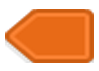
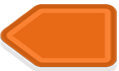
Changed buttons

diff --git a/LabGame/Classes/MenuScene.cpp b/LabGame/Classes/MenuScene.cpp
@@ -64,24 +64,24 @@ bool MenuScene::init()
 
 	// Start game button
 	Touchables* start = new Touchables();
-	start->init("startgame_button.png", "mainSprite", visibleSize.width * 0.35, visibleSize.height * 0.6, Touchables::T_STARTGAME);
+	start->init("yellow_button1.png", "mainSprite", visibleSize.width * 0.35, visibleSize.height * 0.6, Touchables::T_STARTGAME);
 	start->getSprite()->setScale(1.2);
 
 	// Shop button
 	Touchables* shop = new Touchables();
-	shop->init("shop.png", "mainSprite", visibleSize.width * 0.35, visibleSize.height * 0.5, Touchables::T_SHOP);
+	shop->init("red_button1.png", "mainSprite", visibleSize.width * 0.35, visibleSize.height * 0.5, Touchables::T_SHOP);
 	shop->getSprite()->setScale(1.2);
 
 	// Setting button
 	Touchables* settings = new Touchables();
-	settings->init("settings.png", "mainSprite", visibleSize.width * 0.35, visibleSize.height * 0.4, Touchables::T_SETTINGS);
+	settings->init("green_button1.png", "mainSprite", visibleSize.width * 0.35, visibleSize.height * 0.4, Touchables::T_SETTINGS);
 	settings->getSprite()->setScale(1.2);
 
 	// Exit button
 	Touchables* exit = new Touchables();
-	exit->init("exit.png", "mainSprite", visibleSize.width * 0.35, visibleSize.height * 0.3, Touchables::T_EXIT);
+	exit->init("blue_button1.png", "mainSprite", visibleSize.width * 0.35, visibleSize.height * 0.3, Touchables::T_EXIT);
 	exit->getSprite()->setScale(1.2);
-
+	
 	// push back sprite vector
 	touchableSprites.push_back(start);
 	touchableSprites.push_back(shop);
@@ -102,10 +102,24 @@ bool MenuScene::init()
 	//health2->setPosition(400, 300);
 	//nodeItems->addChild(health2, 1);
 
+
 	for (auto* s : touchableSprites)
 	{
 		spriteNode->addChild(s->getSprite(), 1);
 	}
+
+	// Text on button
+	start->SetText("START GAME", 1, "fonts/Soos.ttf", ccc3(255, 255, 255), 0, 0);
+	start->GetLabel()->disableEffect();
+
+	shop->SetText("SHOP", 1, "fonts/Soos.ttf", ccc3(255, 255, 255), 0, 0);
+	shop->GetLabel()->disableEffect();
+
+	settings->SetText("SETTINGS", 1, "fonts/Soos.ttf", ccc3(255, 255, 255), 0, 0);
+	settings->GetLabel()->disableEffect();
+
+	exit->SetText("EXIT", 1, "fonts/Soos.ttf", ccc3(255, 255, 255), 0, 0);
+	exit->GetLabel()->disableEffect();
 
 	auto moveEvent = MoveBy::create(1, Vec2(200, 0));  // Move to 200 pixels in 1 second
 													   //Move to is absolute movement
@@ -301,37 +315,37 @@ void MenuScene::onMouseMove(Event *event)
 			{
 			case Touchables::T_STARTGAME:
 			{
-				s->getSprite()->setTexture("startgame_button2.png");
+				s->getSprite()->setTexture("yellow_button2.png");
 				if (s->GetLabel() != nullptr)
 				{
-					s->GetLabel()->setColor(ccc3(0, 0, 255));
+					s->GetLabel()->setColor(ccc3(245, 245, 245));
 				}
 				break;
 			}
 			case Touchables::T_SHOP:
 			{
-				s->getSprite()->setTexture("shop_button2.png");
+				s->getSprite()->setTexture("red_button2.png");
 				if (s->GetLabel() != nullptr)
 				{
-					s->GetLabel()->setColor(ccc3(0, 0, 255));
+					s->GetLabel()->setColor(ccc3(245, 245, 245));
 				}
 				break;
 			}
 			case Touchables::T_SETTINGS:
 			{
-				s->getSprite()->setTexture("settings_button2.png");
+				s->getSprite()->setTexture("green_button2.png");
 				if (s->GetLabel() != nullptr)
 				{
-					s->GetLabel()->setColor(ccc3(0, 0, 255));
+					s->GetLabel()->setColor(ccc3(245, 245, 245));
 				}
 				break;
 			}
 			case Touchables::T_EXIT:
 			{
-				s->getSprite()->setTexture("exit_button2.png");
+				s->getSprite()->setTexture("blue_button2.png");
 				if (s->GetLabel() != nullptr)
 				{
-					s->GetLabel()->setColor(ccc3(0, 0, 255));
+					s->GetLabel()->setColor(ccc3(245, 245, 245));
 				}
 				break;
 			}
@@ -343,37 +357,37 @@ void MenuScene::onMouseMove(Event *event)
 			{
 			case Touchables::T_STARTGAME:
 			{
-				s->getSprite()->setTexture("startgame_button.png");
+				s->getSprite()->setTexture("yellow_button1.png");
 				if (s->GetLabel() != nullptr)
 				{
-					s->GetLabel()->setColor(ccc3(0, 0, 255));
+					s->GetLabel()->setColor(ccc3(255, 255, 255));
 				}
 				break;
 			}
 			case Touchables::T_SHOP:
 			{
-				s->getSprite()->setTexture("shop.png");
+				s->getSprite()->setTexture("red_button1.png");
 				if (s->GetLabel() != nullptr)
 				{
-					s->GetLabel()->setColor(ccc3(0, 0, 255));
+					s->GetLabel()->setColor(ccc3(255, 255, 255));
 				}
 				break;
 			}
 			case Touchables::T_SETTINGS:
 			{
-				s->getSprite()->setTexture("settings.png");
+				s->getSprite()->setTexture("green_button1.png");
 				if (s->GetLabel() != nullptr)
 				{
-					s->GetLabel()->setColor(ccc3(0, 0, 255));
+					s->GetLabel()->setColor(ccc3(255, 255, 255));
 				}
 				break;
 			}
 			case Touchables::T_EXIT:
 			{
-				s->getSprite()->setTexture("exit.png");
+				s->getSprite()->setTexture("blue_button1.png");
 				if (s->GetLabel() != nullptr)
 				{
-					s->GetLabel()->setColor(ccc3(0, 0, 255));
+					s->GetLabel()->setColor(ccc3(255, 255, 255));
 				}
 				break;
 			}

diff --git a/LabGame/Classes/SelectLevelScene.cpp b/LabGame/Classes/SelectLevelScene.cpp
@@ -36,7 +36,7 @@ bool SelectLevel::init()
 	}
 
 	CCUserDefault *def = CCUserDefault::sharedUserDefault();
-	levelunlocked = def->getIntegerForKey("LevelUnlockedTest");
+	levelunlocked= def->getIntegerForKey("LevelUnlockedTest");
 	touchableSprites.clear();
 
 	visibleSize = Director::getInstance()->getVisibleSize();
@@ -81,7 +81,7 @@ bool SelectLevel::init()
 
 	// Back button
 	Touchables* back = new Touchables();
-	back->init("back_button.png", "mainSprite", visibleSize.width * 0.8, visibleSize.height * 0.1, Touchables::T_BACK);
+	back->init("back_button.png", "mainSprite", visibleSize.width * 0.8, visibleSize.height * 0.05, Touchables::T_BACK);
 	back->getSprite()->setScale(1.2);
 
 	// push back sprite vector

diff --git a/LabGame/Classes/HelloWorldScene.cpp b/LabGame/Classes/HelloWorldScene.cpp
@@ -92,7 +92,7 @@ bool HelloWorld::init()
 
 	// Gold Upgrade
 	Touchables* goldUpgrade = new Touchables();
-	goldUpgrade->init("gold.png", "mainSprite", visibleSize.width * 0.8, visibleSize.height * 0.5, Touchables::T_GOLDUPGRADE);
+	goldUpgrade->init("gold.png", "mainSprite", visibleSize.width * 0.7, visibleSize.height * 0.1, Touchables::T_GOLDUPGRADE);
 	goldUpgrade->getSprite()->setScale(0.3);
 
 	std::stringstream oss;

diff --git a/LabGame/Classes/Shop.cpp b/LabGame/Classes/Shop.cpp
@@ -71,7 +71,7 @@ bool Shop::init()
 
 	// Back button
 	Touchables* back = new Touchables();
-	back->init("back_button.png", "mainSprite", visibleSize.width * 0.5, visibleSize.height * 0.1, Touchables::T_BACK);
+	back->init("back_button.png", "mainSprite", visibleSize.width * 0.8, visibleSize.height * 0.05, Touchables::T_BACK);
 	back->getSprite()->setScale(1.2);
 
 	Touchables* monster1 = new Touchables();

diff --git a/LabGame/Classes/Settings.cpp b/LabGame/Classes/Settings.cpp
@@ -72,7 +72,7 @@ bool Settings::init()
 
 	// Back button
 	Touchables* back = new Touchables();
-	back->init("back_button.png", "mainSprite", visibleSize.width * 0.8, visibleSize.height * 0.1, Touchables::T_BACK);
+	back->init("back_button.png", "mainSprite", visibleSize.width * 0.8, visibleSize.height * 0.05, Touchables::T_BACK);
 	back->getSprite()->setScale(1.2);
 
 	// push back sprite vector
